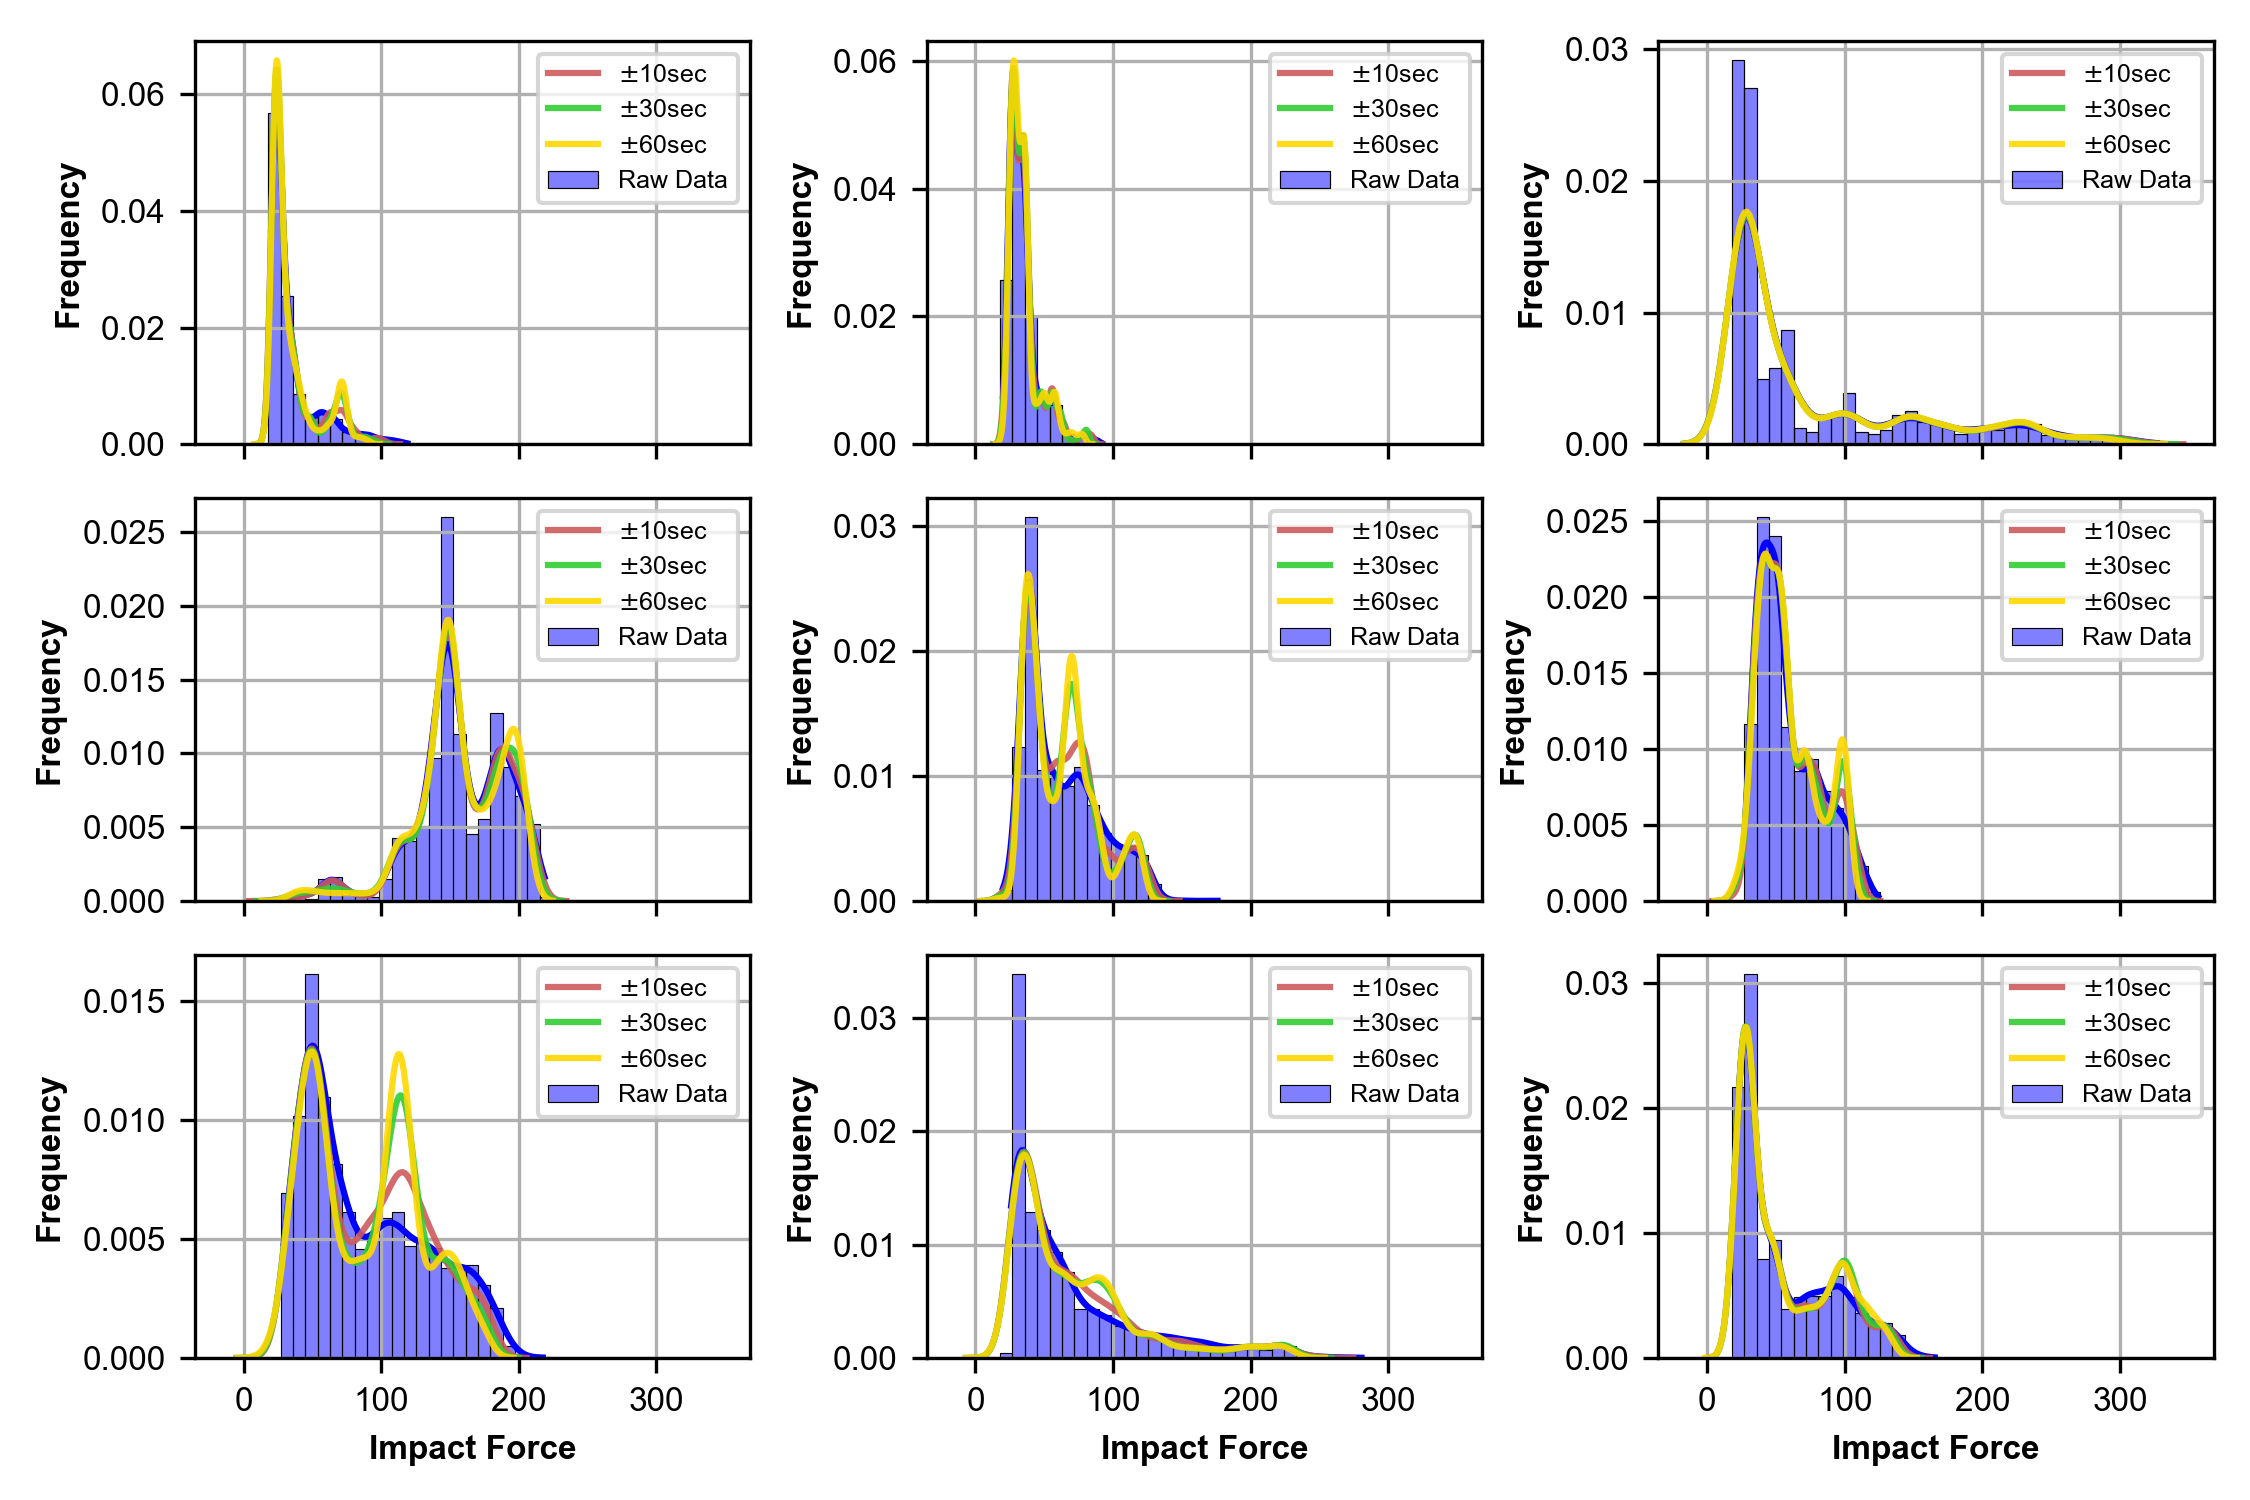
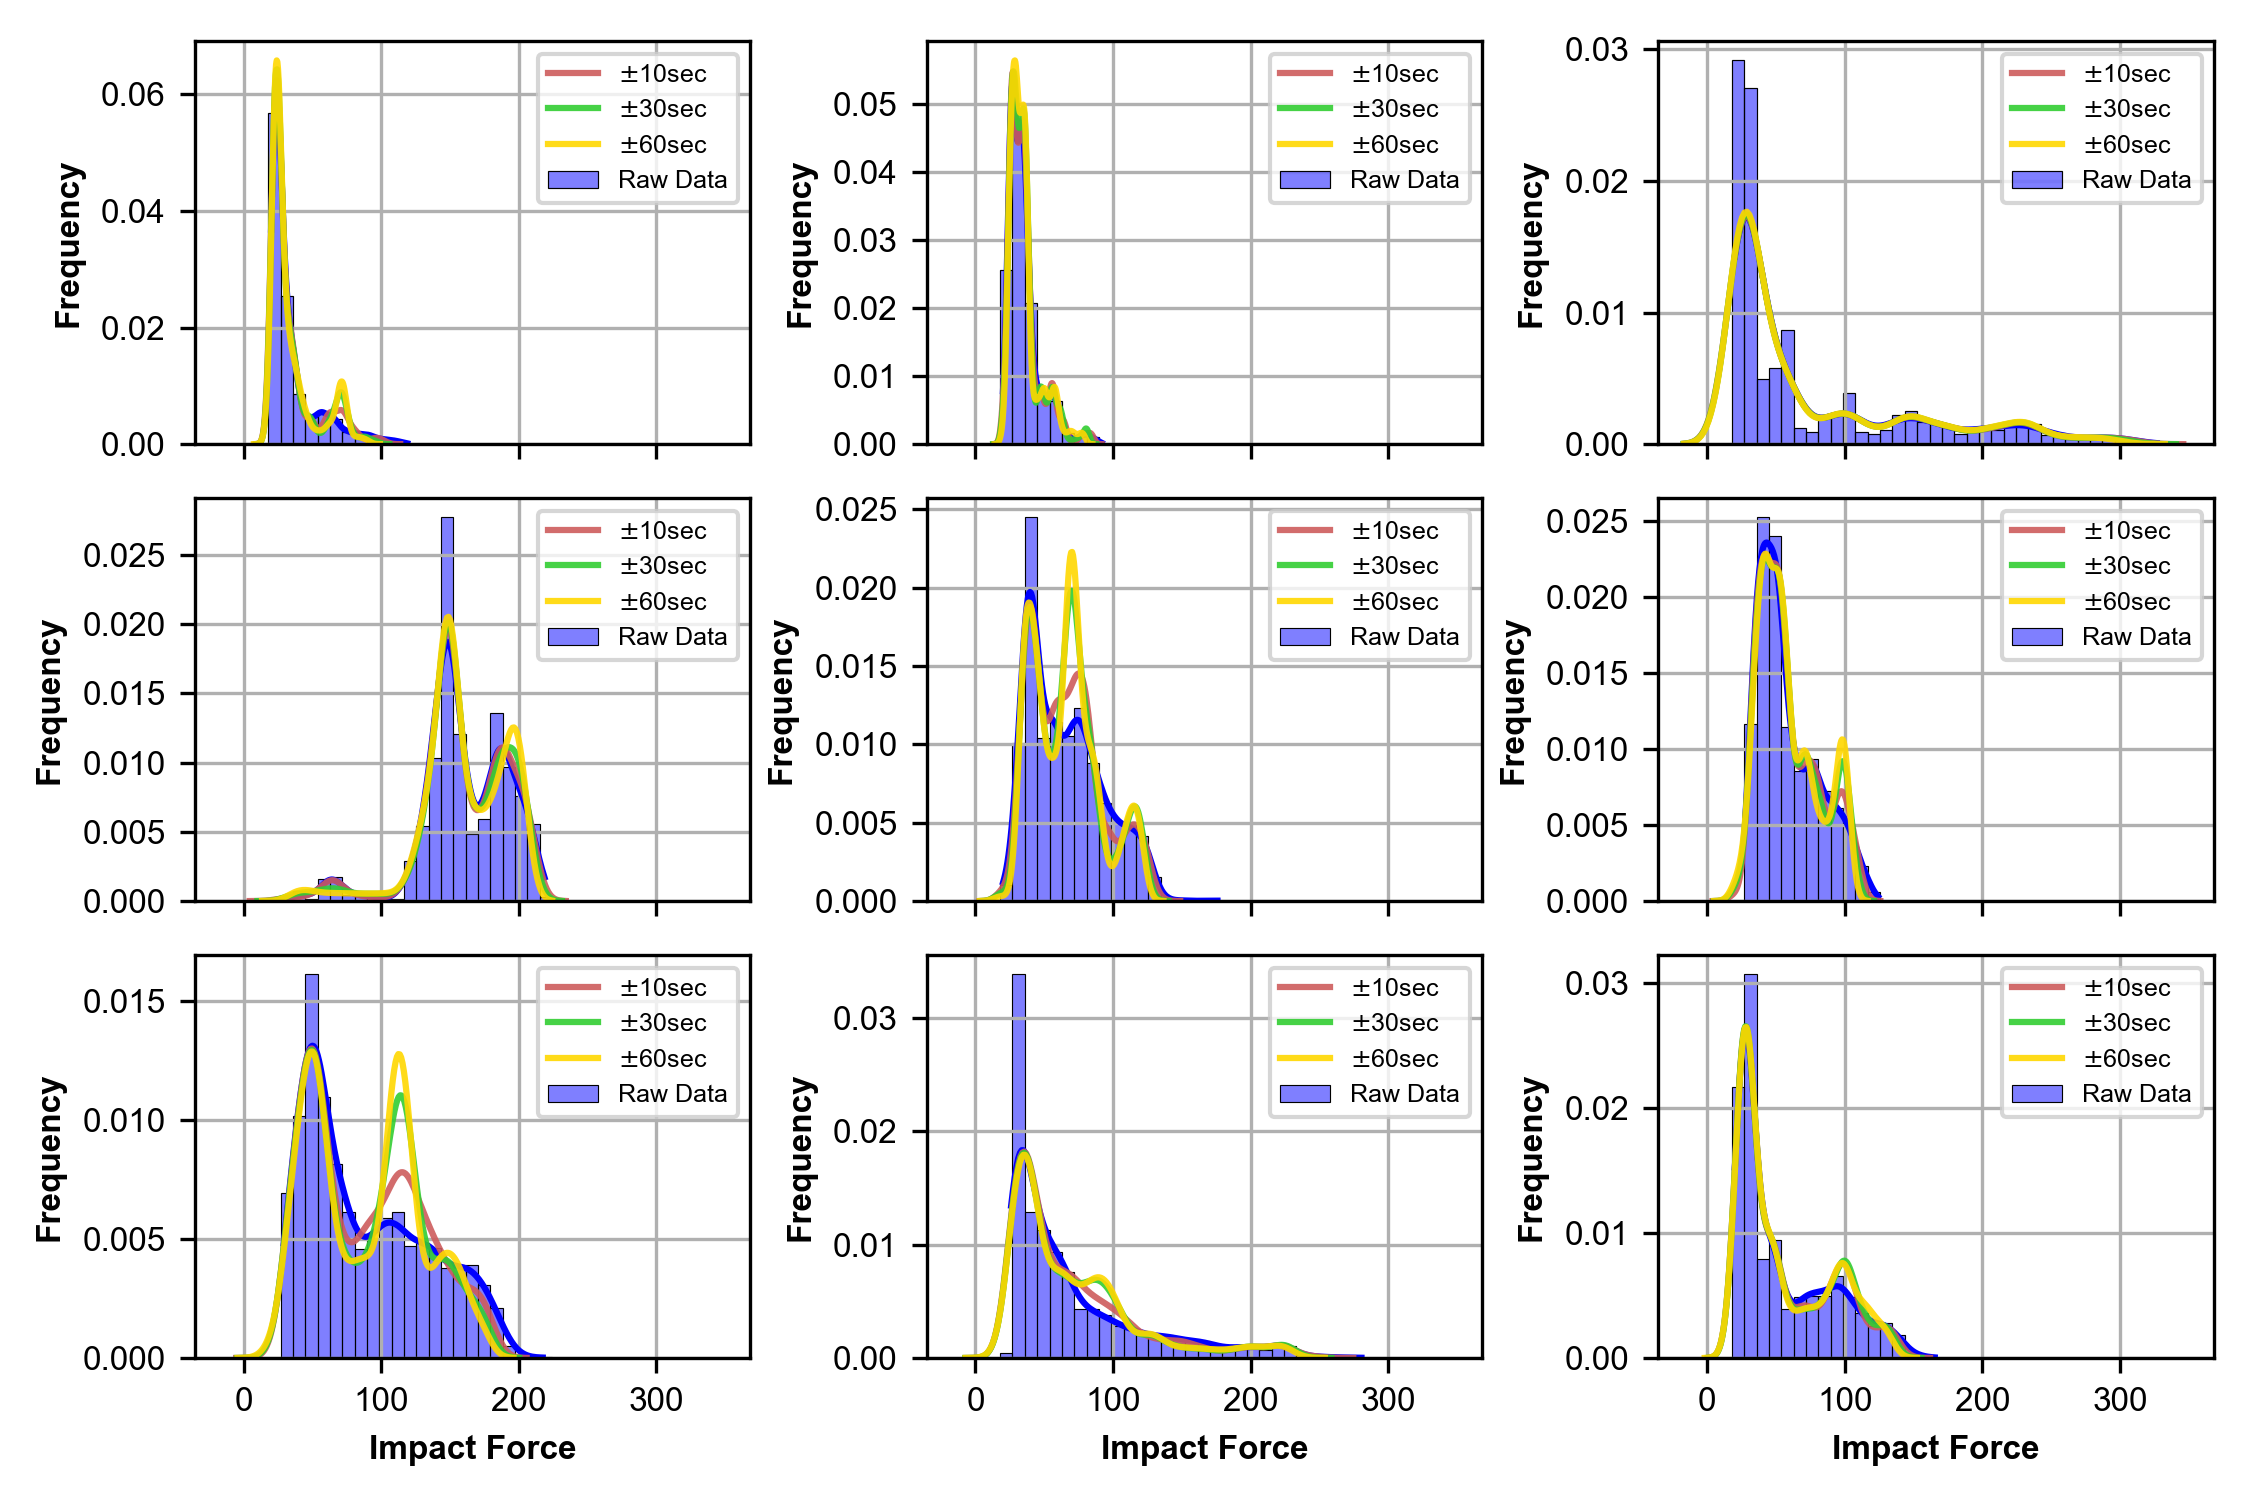
fixed bugs in preprocessing

diff --git a/data_preprocessing/shift_peak.py b/data_preprocessing/shift_peak.py
@@ -43,8 +43,8 @@ def main(time_shift_minutes, from_velocity:bool=False, avg_peak_shift:bool=False
         # print(f"{data_start_time1.datetime} \n{data_start_time2.datetime}")
         time_diff1, time_diff2 = data_start_time1 - df_start_times.iloc[0], data_start_time2 - df_start_times.iloc[1]
 
-        data1['Time'] = data1.iloc[:,-1].apply(UTCDateTime) - (6 * 60) + (time_shift_minutes * 60)
-        data2['Time'] = data2.iloc[:,-1].apply(UTCDateTime) - (1 * 60) + (time_shift_minutes * 60)
+        data1['Time'] = data1.iloc[:,-1].apply(UTCDateTime) - (5.2 * 60) + (time_shift_minutes * 60)
+        data2['Time'] = data2.iloc[:,-1].apply(UTCDateTime) - (4.9 * 60) + (time_shift_minutes * 60)
         data = pd.concat([data1, data2])
         complete_data = pd.DataFrame(columns= ['Time'])
         start_time = UTCDateTime("2019-06-10T00:00:00")
@@ -69,8 +69,8 @@ def main(time_shift_minutes, from_velocity:bool=False, avg_peak_shift:bool=False
         data_start_time1, data_start_time2 = UTCDateTime(data1.iloc[0,-1]), UTCDateTime(data2.iloc[0,-1])
         # print(f"{data_start_time1.datetime} \n{data_start_time2.datetime}")
         time_diff1, time_diff2 = data_start_time1 - df_start_times.iloc[0], data_start_time2 - df_start_times.iloc[1]
-        data1['Time'] = data1.iloc[:,-1].apply(UTCDateTime) - (61 * 60) + (time_shift_minutes * 60)
-        data2['Time'] = data2.iloc[:,-1].apply(UTCDateTime) - (68 * 60) + (time_shift_minutes * 60)
+        data1['Time'] = data1.iloc[:,-1].apply(UTCDateTime) - (61.2 * 60) + (time_shift_minutes * 60)
+        data2['Time'] = data2.iloc[:,-1].apply(UTCDateTime) - (68.1 * 60) + (time_shift_minutes * 60)
 
         data = pd.concat([data1, data2])
         complete_data = pd.DataFrame(columns= ['Time'])
@@ -94,7 +94,7 @@ def main(time_shift_minutes, from_velocity:bool=False, avg_peak_shift:bool=False
         date_ends = ["2019-06-22","2019-07-16","2019-07-27","2019-08-12","2019-08-21"]
         shift_values = [time_shift_minutes] * 5
         # peak_diff_values = [59, 69, 61, 57, 62] # OLD
-        peak_diff_values = [60, 68, 62, 57, 62]
+        peak_diff_values = [61.2, 69.5, 61.3, 57.5, 62.4]
 
         for date_start, date_end, shift, peak_diff in tqdm(zip(date_starts, date_ends, shift_values, peak_diff_values), total=5):
             DataStart = date_start
@@ -139,8 +139,8 @@ def main(time_shift_minutes, from_velocity:bool=False, avg_peak_shift:bool=False
         print(f"date: {start_date}, vel: {temp.iloc[0,2]}, time_shift: {distance / temp.iloc[0,2] : .2f}")
         print(f"date: {start_date}, vel: {temp.iloc[1,2]}, time_shift: {distance / temp.iloc[1,2] : .2f}")
 
-        data1['Time'] = data1.iloc[:,-1].apply(UTCDateTime) - (6 * 60) + int(distance / temp.iloc[0,2]) # - peak_to_peak difference + time shift by velocity
-        data2['Time'] = data2.iloc[:,-1].apply(UTCDateTime) - (1 * 60) + int(distance / temp.iloc[1,2]) # - peak_to_peak difference + time shift by velocity
+        data1['Time'] = data1.iloc[:,-1].apply(UTCDateTime) - (5.2 * 60) + int(distance / temp.iloc[0,2]) # - peak_to_peak difference + time shift by velocity
+        data2['Time'] = data2.iloc[:,-1].apply(UTCDateTime) - (4.9 * 60) + int(distance / temp.iloc[1,2]) # - peak_to_peak difference + time shift by velocity
         data = pd.concat([data1, data2])
         complete_data = pd.DataFrame(columns= ['Time'])
         start_time = UTCDateTime("2019-06-10T00:00:00")
@@ -168,9 +168,8 @@ def main(time_shift_minutes, from_velocity:bool=False, avg_peak_shift:bool=False
         print(f"date: {DataStart}, vel: {temp.iloc[1,2]}, time_shift: {distance / temp.iloc[1,2] : .2f}")
         # print(f"{data_start_time1.datetime} \n{data_start_time2.datetime}")
         time_diff1, time_diff2 = data_start_time1 - df_start_times.iloc[0], data_start_time2 - df_start_times.iloc[1]
-        data1['Time'] = data1.iloc[:,-1].apply(UTCDateTime) - (61 * 60) + int(distance / temp.iloc[0,2])
-        data2['Time'] = data2.iloc[:,-1].apply(UTCDateTime) - (68 * 60) + int(distance / temp.iloc[1,2])
-
+        data1['Time'] = data1.iloc[:,-1].apply(UTCDateTime) - (61.95 * 60) + int(distance / temp.iloc[0,2])
+        data2['Time'] = data2.iloc[:,-1].apply(UTCDateTime) - (68.1 * 60) + int(distance / temp.iloc[1,2])
         data = pd.concat([data1, data2])
         complete_data = pd.DataFrame(columns= ['Time'])
         start_time = UTCDateTime("2019-07-01T00:00:00")
@@ -191,7 +190,8 @@ def main(time_shift_minutes, from_velocity:bool=False, avg_peak_shift:bool=False
         # peak_shift_df = pd.read_csv("peak_times.csv", index_col=False)
         date_starts = ["2019-06-21","2019-07-15","2019-07-26","2019-08-11","2019-08-20"]
         date_ends = ["2019-06-22","2019-07-16","2019-07-27","2019-08-12","2019-08-21"]
-        peak_diff_values = [60, 68, 62, 57, 62]
+        # peak_diff_values = [60, 68, 62, 57, 62]
+        peak_diff_values = [61.2, 69.5, 61.3, 57.5, 62.5]
         for date_start, date_end, peak_diff in tqdm(zip(date_starts, date_ends, peak_diff_values), total=5):
             temp = vel_df[vel_df['Event_Date'] == date_start]
             DataStart = date_start
@@ -239,8 +239,8 @@ def main(time_shift_minutes, from_velocity:bool=False, avg_peak_shift:bool=False
         print(f"date: {start_date}, vel: {avg_velocity}, time_shift: {distance / avg_velocity : .2f}")
         print(f"date: {start_date}, vel: {avg_velocity}, time_shift: {distance / avg_velocity : .2f}")
 
-        data1['Time'] = data1.iloc[:,-1].apply(UTCDateTime) - (6 * 60) + int(distance / avg_velocity) # - peak_to_peak difference + time shift by velocity
-        data2['Time'] = data2.iloc[:,-1].apply(UTCDateTime) - (1 * 60) + int(distance / avg_velocity) # - peak_to_peak difference + time shift by velocity
+        data1['Time'] = data1.iloc[:,-1].apply(UTCDateTime) - (5.2 * 60) + int(distance / avg_velocity) # - peak_to_peak difference + time shift by velocity
+        data2['Time'] = data2.iloc[:,-1].apply(UTCDateTime) - (4.9 * 60) + int(distance / avg_velocity) # - peak_to_peak difference + time shift by velocity
         data = pd.concat([data1, data2])
         complete_data = pd.DataFrame(columns= ['Time'])
         start_time = UTCDateTime("2019-06-10T00:00:00")
@@ -268,8 +268,8 @@ def main(time_shift_minutes, from_velocity:bool=False, avg_peak_shift:bool=False
         print(f"date: {DataStart}, vel: {avg_velocity}, time_shift: {distance / avg_velocity : .2f}")
         # print(f"{data_start_time1.datetime} \n{data_start_time2.datetime}")
         time_diff1, time_diff2 = data_start_time1 - df_start_times.iloc[0], data_start_time2 - df_start_times.iloc[1]
-        data1['Time'] = data1.iloc[:,-1].apply(UTCDateTime) - (61 * 60) + int(distance / avg_velocity)
-        data2['Time'] = data2.iloc[:,-1].apply(UTCDateTime) - (67 * 60) + int(distance / avg_velocity)
+        data1['Time'] = data1.iloc[:,-1].apply(UTCDateTime) - (61.95 * 60) + int(distance / avg_velocity)
+        data2['Time'] = data2.iloc[:,-1].apply(UTCDateTime) - (68.1 * 60) + int(distance / avg_velocity)
 
         data = pd.concat([data1, data2])
         complete_data = pd.DataFrame(columns= ['Time'])
@@ -291,7 +291,9 @@ def main(time_shift_minutes, from_velocity:bool=False, avg_peak_shift:bool=False
         # peak_shift_df = pd.read_csv("peak_times.csv", index_col=False)
         date_starts = ["2019-06-21","2019-07-15","2019-07-26","2019-08-11","2019-08-20"]
         date_ends = ["2019-06-22","2019-07-16","2019-07-27","2019-08-12","2019-08-21"]
-        peak_diff_values = [60, 68, 62, 57, 62]
+        # peak_diff_values = [60, 68, 62, 57, 62]
+        peak_diff_values = [61.2, 69.5, 61.3, 57.5, 62.5]
+
         for date_start, date_end, peak_diff in tqdm(zip(date_starts, date_ends, peak_diff_values), total=5):
             temp = vel_df[vel_df['Event_Date'] == date_start]
             DataStart = date_start
@@ -319,7 +321,7 @@ def main(time_shift_minutes, from_velocity:bool=False, avg_peak_shift:bool=False
 
 if __name__ == "__main__":
     parser = argparse.ArgumentParser(description="Shift Impact Force Peak Times")
-    parser.add_arguement("--time_shift", type=int, default=None, help="Time shift in minutes, can be None")
+    parser.add_argument("--time_shift", type=int, default=None, help="Time shift in minutes, can be None")
     parser.add_argument("--from_velocity", action="store_true", help="Shift based on velocity")
     parser.add_argument("--avg_shift", action="store_true", help="Shift based on average peak shift")
     

diff --git a/data_preprocessing/smooth_data.py b/data_preprocessing/smooth_data.py
@@ -67,7 +67,7 @@ def make_plot(date):
     ax.legend()
     fig.tight_layout()
     os.makedirs("./smoothing/img", exist_ok = True)
-    fig.savefig("./smoothing/img/2019-08-20.png", dpi=300);
+    fig.savefig(f"./smoothing/img/{date}.png", dpi=300);
     plt.close(fig)
 
     fig, ax = plt.subplots(1, 3, sharex=True, sharey=True, figsize=(12,4))
@@ -86,7 +86,7 @@ def make_plot(date):
 
     fig.tight_layout()
     os.makedirs("./smoothing/dist", exist_ok = True)
-    fig.savefig("./smoothing/dist/2019-08-20.png", dpi=300);
+    fig.savefig(f"./smoothing/dist/{date}.png", dpi=300);
 
     return None
 
@@ -104,7 +104,7 @@ def main(time_shift:str, smooth:bool, plot:bool):
 
 if __name__ == "__main__":
     parser = argparse.ArgumentParser(description="Smooth data and make plots")
-    parser.add_arguement("--time_shift", type=str, default="average", help="Time shift method to use for smoothing")
+    parser.add_argument("--time_shift", type=str, default="average", help="Time shift method to use for smoothing")
     parser.add_argument("--smooth", action="store_true", help="Whether to smooth the data")
     parser.add_argument("--plot", action="store_true", help="Whether to plot the data")
     args = parser.parse_args()

diff --git a/data_preprocessing/utils.py b/data_preprocessing/utils.py
@@ -13,9 +13,10 @@ def fill_missing_from_Gaussian(column_val, mean, std):
 def get_mean_and_std():
     min_Fvs, mean_Fv_stds = [], []
     for file in os.listdir(path= "../label/utc0_data"):
-        df = pd.read_csv(f"../label/utc0_data/{file}")
-        min_Fvs.append(np.min(df['Fv [kN]']))
-        mean_Fv_stds.append(np.mean(df['Fv std']))
+        if file.endswith(".csv"):
+            df = pd.read_csv(f"../label/utc0_data/{file}")
+            min_Fvs.append(np.min(df['Fv [kN]']))
+            mean_Fv_stds.append(np.mean(df['Fv std']))
     min_Fv = np.min(min_Fvs)
     min_Fv_std = np.min(mean_Fv_stds)
    
